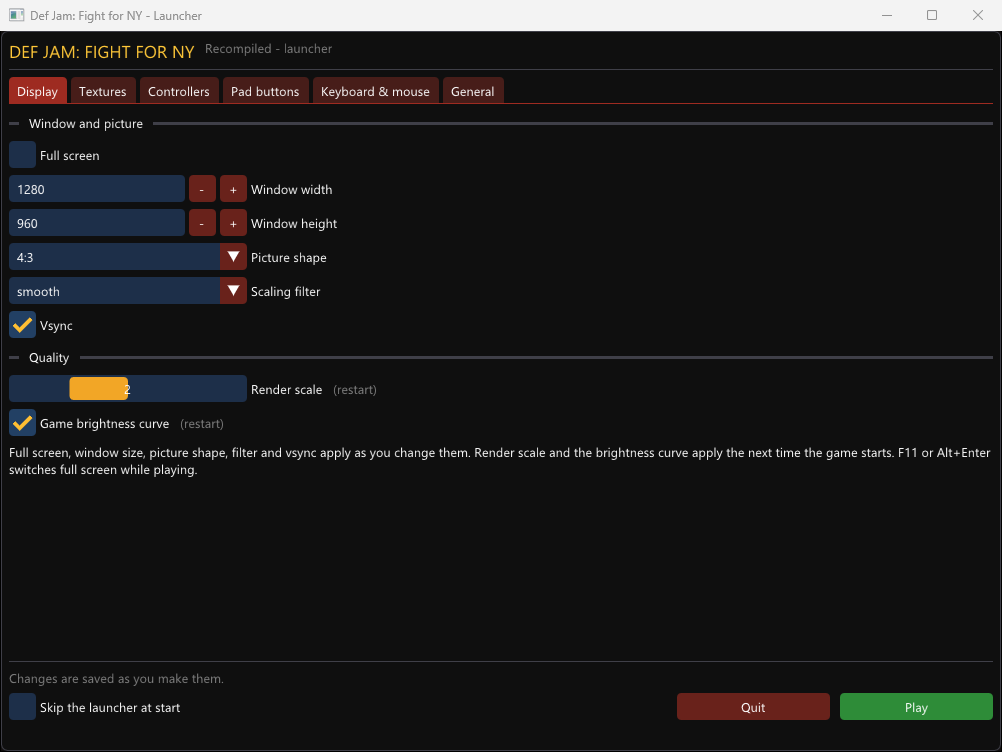
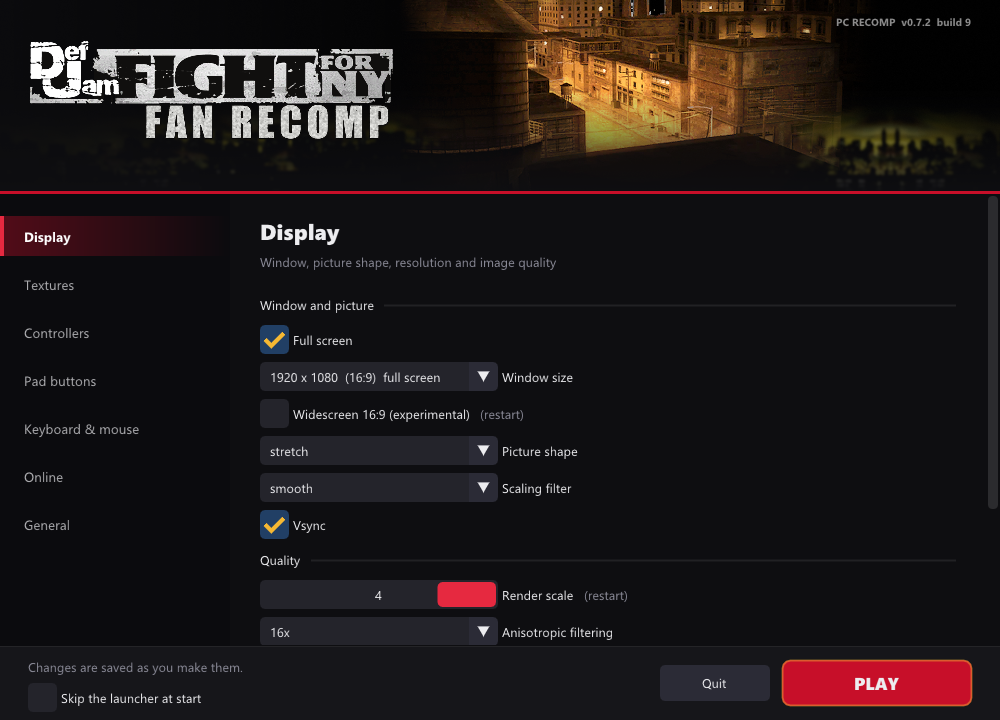
docs: README pictures of the online screens; new launcher and setup pictures
The online section shows the main menu's ONLINE entry, the hub, the fighter grid, the
venue vote, a room and an online fight, all from the game's own frames (a two-copy run
against a local relay, logs/run-20261020-202616.log.err: the first-time help card
skipped on both, 140 checksums equal through step 8400). The launcher and setup wizard
pictures are retaken for FFNY Online. The launcher opens off the desktop without the
focus under RECOMP_WINDOW_BACKGROUND, for such captures. Pins updated in
check-source-tree.py.

diff --git a/scripts/check-source-tree.py b/scripts/check-source-tree.py
@@ -22,8 +22,17 @@ APPROVED_README_MEDIA = {
[2 lines of base64/hex data omitted]
     # 2026-10-09, at the owner's request: the port's own setup wizard and launcher. No game artwork.
[4 lines of base64/hex data omitted]
+    # 2026-10-20, FFNY Online's owner, for the README and the release post: the online screens
+    # (main menu entry, hub, room, fighter grid, venue vote) and an online fight, captured from the
+    # game's own frames; the setup wizard and launcher pictures were retaken for FFNY Online.
[6 lines of base64/hex data omitted]
 }
 # D98 (2026-10-10): the owner approved committing the application icons and the Steam artwork
 # rendered from the game's own textures (the shield, the title wordmark, the title-screen scene).

diff --git a/src/hooks/pc_launcher.cpp b/src/hooks/pc_launcher.cpp
@@ -294,7 +294,13 @@ extern "C" int pc_launcher_run(void)
         x = work.left + (work.right - work.left - w) / 2;
         y = work.top + (work.bottom - work.top - h) / 2;
     }
-    HWND window = CreateWindowExW(0, L"DefJamRecompLauncher", L"Def Jam: Fight for NY - Launcher",
+    // RECOMP_WINDOW_BACKGROUND (test runs, screenshots): off the desktop and without the focus.
+    bool background = getenv("RECOMP_WINDOW_BACKGROUND") != nullptr;
+    if (background) {
+        x = GetSystemMetrics(SM_XVIRTUALSCREEN) - w - 64;
+        y = GetSystemMetrics(SM_YVIRTUALSCREEN);
+    }
+    HWND window = CreateWindowExW(background ? WS_EX_NOACTIVATE : 0, L"DefJamRecompLauncher", L"Def Jam: Fight for NY - Launcher",
                                   WS_OVERLAPPEDWINDOW, x, y, w, h, nullptr, nullptr, GetModuleHandleW(nullptr), nullptr);
     if (!window) return 1;                       // no window: do not hold the game back
     if (!make_device(window)) {
@@ -314,8 +320,8 @@ extern "C" int pc_launcher_run(void)
     fprintf(stderr, "[UI] launcher artwork: banner %s, logo %s\n", g_banner.srv ? "loaded" : "not found",
             g_logo.srv ? "loaded" : "not found");
     ui_unlock();
-    ShowWindow(window, SW_SHOW);
-    SetForegroundWindow(window);
+    ShowWindow(window, background ? SW_SHOWNOACTIVATE : SW_SHOW);
+    if (!background) SetForegroundWindow(window);
     fprintf(stderr, "[UI] launcher shown\n");
     fflush(stderr);
 

diff --git a/README.md b/README.md
@@ -46,6 +46,21 @@ Choose **ONLINE** in the main menu (the poster in the bottom-left slot):
   game data.
 - **Updates** arrive through the launcher, signed, so you and your friends stay on the same build.
 
+<table>
+<tr>
+<td><img src="docs/media/online-menu.png" alt="ONLINE in the game's main menu"></td>
+<td><img src="docs/media/online-hub.png" alt="The online hub: quick match, find a room, create a room"></td>
+</tr>
+<tr>
+<td><img src="docs/media/online-fighters.png" alt="Choosing a fighter from the roster"></td>
+<td><img src="docs/media/online-vote.png" alt="The room votes on the venue"></td>
+</tr>
+<tr>
+<td><img src="docs/media/online-room.png" alt="A room with both players ready"></td>
+<td><img src="docs/media/online-fight.png" alt="An online fight in the Terror Dome"></td>
+</tr>
+</table>
+
 Online play is Windows only for now. Details: [Online play](docs/netplay.md).
 
 ## Features
